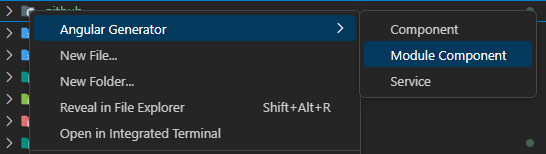
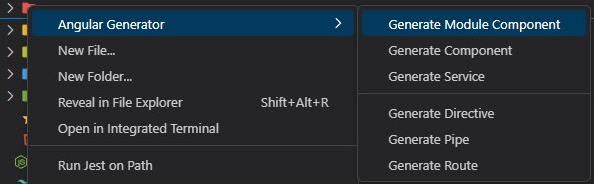
Update extension to generate more files
* New Pipe, Directive, Route templates/options
* New settings to toggle specs and stories
* Update README, screenshots
* Fix order of actions in the menu

diff --git a/src/generator/generate-files.ts b/src/generator/generate-files.ts
@@ -6,6 +6,11 @@ import * as path from 'path';
 import * as vscode from 'vscode';
 import { TemplateVariables } from './TemplateVariables.model';
 import { log } from './formatter';
+import {
+  getSetting_customTemplateFolder,
+  getSetting_generateSpec,
+  getSetting_generateStories,
+} from './settings';
 
 interface TemplateFile {
   name: string;
@@ -32,10 +37,8 @@ export async function generate(
   log(`defaultTemplateFiles`, defaultTemplateFiles);
 
   // Custom Template Dir
-  // From package.json/contributes/configuration/properties
-  const customTemplatesFolder: string | null | undefined = vscode.workspace
-    .getConfiguration('angular-files-generator')
-    .get('customTemplateFolder');
+  const customTemplatesFolder: string | null | undefined =
+    getSetting_customTemplateFolder();
   const workspaceRoot = vscode.workspace.workspaceFolders?.[0].uri.fsPath;
   log(`workspaceRoot `, workspaceRoot);
   const customTemplatesPath =
@@ -78,7 +81,7 @@ export async function generate(
   );
 
   // Filter based on the user selected generator option (component, module service or both component+module)
-  const filteredTemplateFiles: TemplateFile[] = templateFiles.filter(
+  let filteredTemplateFiles: TemplateFile[] = templateFiles.filter(
     (templateFile) => {
       return templateVariables.resourceType === 'module'
         ? templateFile.name.includes('module') ||
@@ -86,6 +89,18 @@ export async function generate(
         : templateFile.name.includes(templateVariables.resourceType);
     }
   );
+
+  if (!getSetting_generateSpec()) {
+    filteredTemplateFiles = filteredTemplateFiles.filter(
+      (tf) => !tf.name.includes('.spec.ts')
+    );
+  }
+
+  if (!getSetting_generateStories()) {
+    filteredTemplateFiles = filteredTemplateFiles.filter(
+      (tf) => !tf.name.includes('.stories.ts')
+    );
+  }
 
   // Render each template out
   for (const templateFile of filteredTemplateFiles) {

diff --git a/src/generator/settings.ts b/src/generator/settings.ts
@@ -1,0 +1,20 @@
+// Settings
+// From package.json/contributes/configuration/properties
+import * as vscode from 'vscode';
+
+export const getSetting_customTemplateFolder = () =>
+  getExtensionSetting<string | null | undefined>('customTemplateFolder');
+
+export const getSetting_generateSpec = () =>
+  getExtensionSetting<boolean | undefined>('generateSpec');
+
+export const getSetting_generateStories = () =>
+  getExtensionSetting<boolean | undefined>('generateStories');
+
+function getExtensionSettings(): vscode.WorkspaceConfiguration {
+  return vscode.workspace.getConfiguration('angular-files-generator');
+}
+
+function getExtensionSetting<T>(settingKey: string): T | undefined {
+  return getExtensionSettings().get(settingKey);
+}

diff --git a/src/generator/editor.ts b/src/generator/editor.ts
@@ -67,7 +67,7 @@ export async function showFileNameDialog(
 
   let fileName: string | undefined = await vscode.window.showInputBox({
     prompt: `Type the name of the new ${resourceType}`,
-    value: `my-new-${resourceType}`,
+    value: `new-${resourceType}`,
   });
 
   if (!fileName) {

diff --git a/src/generator/angular-file-type.model.ts b/src/generator/angular-file-type.model.ts
@@ -2,6 +2,9 @@ export const NG_FILE_TYPE = {
   module: 'module',
   service: 'service',
   component: 'component',
+  directive: 'directive',
+  pipe: 'pipe',
+  route: 'route',
 } as const;
 
 export const NG_FILE_TYPES: NgFileType[] = Object.keys(

diff --git a/README.md b/README.md
@@ -2,31 +2,47 @@
 
 VSCode Extension to generate boilerplate files for Angular Modules, Components, etc...
 
+Why use it? **Customization** to fit your needs!
+
+While the default ng or nx generator is great, this allows you to customize your new generated files to fit your workflow without having to delete or add repetitively to the generated files.
+
+## Support Me
+
+If you find the extension or the source code useful, consider:
+
+- Donating on Ko-fi: https://ko-fi.com/deniszholob
+- Donating on Patreon: https://www.patreon.com/deniszholob
+
 ## Features
 
-![UI](./screenshots/angular-files-generator-ui.png)
-
-![Generated Files](./screenshots/angular-files-generator-result.png)
-
-- Right click in the explorer
+- Right click in the explorer  
+  ![UI](./screenshots/angular-files-generator-ui.png)
 - Select "Angular Generator"
 - Select what you want to generate
   - Component generates html, spec, stories and ts
   - Service generates ts and spec
   - Module Component generates module ts, spec and everything component does
-- Type in `dash-case` name
+- Type in `dash-case` name  
+  ![Name Input](./screenshots/angular-files-generator-input.png)
+- New files will be generated. You can right click into the folder to generate more. No files will be overridden.  
+  ![Generated Files](./screenshots/angular-files-generator-result.png)
 
-### Custom Templates
-In `.vscode/settings.json` add in the following settings to customize the extension
+## Extension Settings/Config
+In `.vscode/settings.json` add in the following settings to customize the extension.
+
+* `customTemplateFolder` - Custom template folder location. Path relative you your workspace root. If null will use extension default templates.
+* `generateSpec` - Toggle generation of spec files.
+* `generateStories` - Toggle generation of stories files.
+
 ```json
-"angular-files-generator": {
-    "customTemplateFolder": null
-  },
+  "angular-files-generator.customTemplateFolder": ".vscode/ngfg-templates",
+  "angular-files-generator.generateSpec": true,
+  "angular-files-generator.generateStories": true,
 ```
-`customTemplateFolder` - path relative you your workspace root, null will use the extension defaults
-
+## Custom Templates
+* Set the `customTemplateFolder` config to your custom template folder.
 * See the [default templates](https://github.com/deniszholob/angular-files-generator/tree/main/src/templates) for reference.
-* Naming should be`__name__.KEYWORD.EXTENSION.mustache` where KEYWORD is one of component, module or service. EXTENSION should reflect the file type and subtype, such as `spec.ts` for typescript tests.
+* File naming should be`__name__.KEYWORD.EXTENSION.mustache` where KEYWORD is one of component, module or service. EXTENSION should reflect the file type and subtype, such as `spec.ts` for typescript tests.
 * [Available variables](./src/generator/TemplateVariables.model.ts) examples
   * `{{componentPrefix}}` - app
   * `{{dashCaseName}}` - new-module
@@ -47,23 +63,7 @@ To use the files install
 
 https://github.com/deniszholob/angular-files-generator/issues
 
-## Release Notes
-
-https://github.com/deniszholob/angular-files-generator/releases
-
-## Dev
-[Extension Development Quick Start](./vsc-extension-quickstart.md)
-[VsCode First Extension Doc](https://code.visualstudio.com/api/get-started/your-first-extension)
-[VsCode API](https://code.visualstudio.com/api/references/vscode-api)
-
-# Support Me
-
-If you find the extension or the source code useful, consider:
-
-- Donating on Ko-fi: https://ko-fi.com/deniszholob
-- Donating on Patreon: https://www.patreon.com/deniszholob
-
-# Downloads
+## Downloads
 
 - [Github](https://github.com/deniszholob/angular-files-generator/releases)
 - [VSCode Marketplace](https://marketplace.visualstudio.com/items?itemName=deniszholob.angular-files-generator)

diff --git a/CONTRIBUTING.md b/CONTRIBUTING.md
@@ -1,0 +1,4 @@
+## References
+* [Extension Development Quick Start](./vsc-extension-quickstart.md)
+* [VsCode First Extension Doc](https://code.visualstudio.com/api/get-started/your-first-extension)
+* [VsCode API](https://code.visualstudio.com/api/references/vscode-api)

diff --git a/CHANGELOG.md b/CHANGELOG.md
@@ -3,6 +3,9 @@
 ## [Unreleased]
 
 ## [0.0.5]
+### Added
+  - More generator options: Route, Directive, Pipe
+  - New setting options to toggle specs and stories
 ### Changed
 - Template variable names to be more consistent
 
